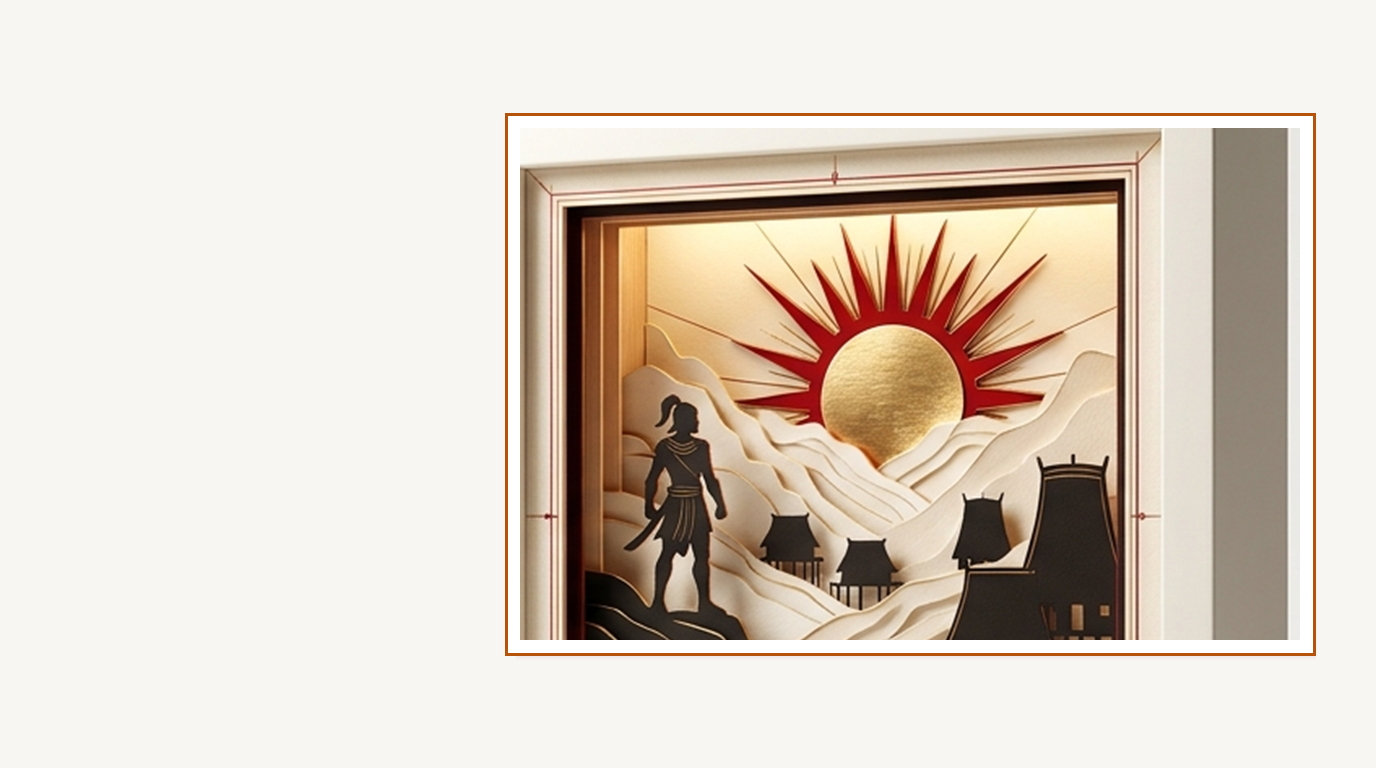
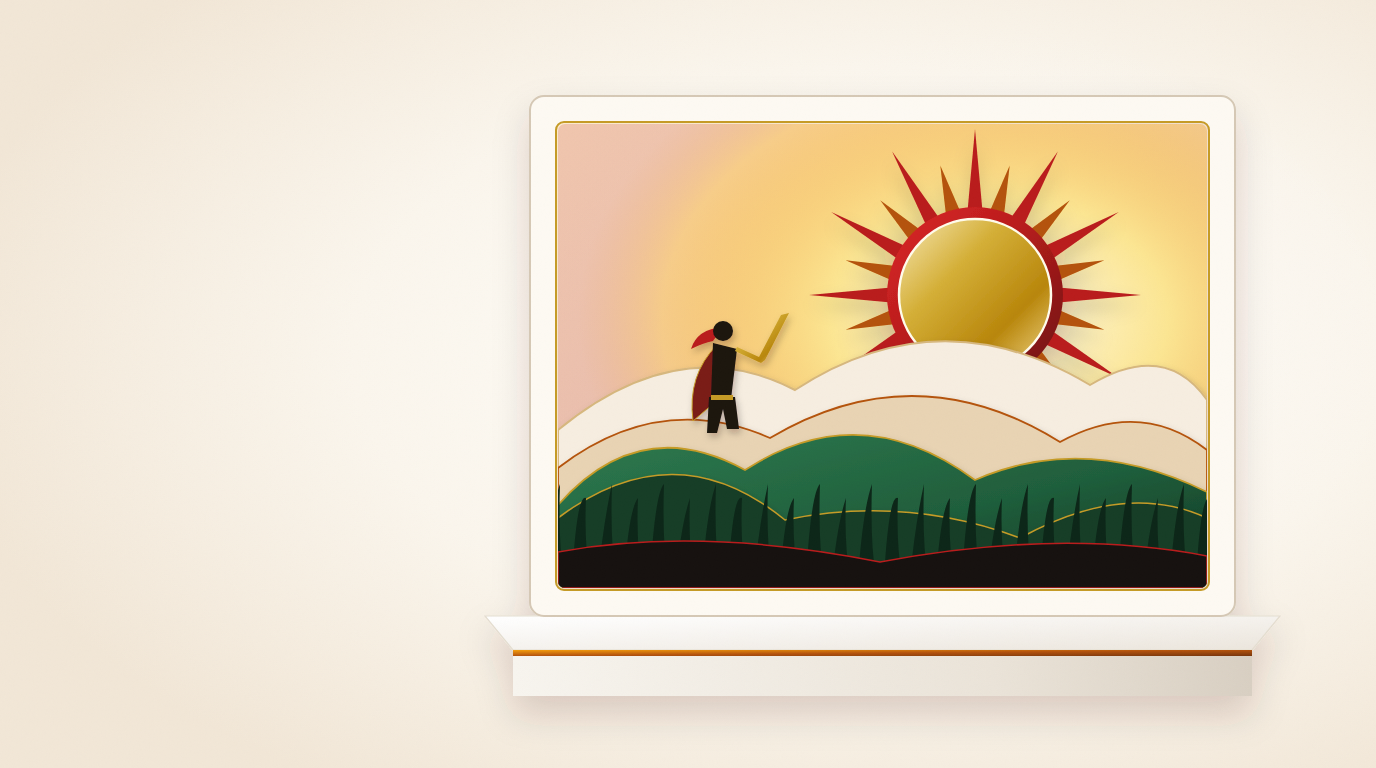
Add 6 unique museum illustration plates to eliminate duplicate images

diff --git a/src/data/quizData.ts b/src/data/quizData.ts
@@ -147,7 +147,7 @@ export const QUIZ_QUESTIONS: QuizQuestion[] = [
     correctIndex: 1,
     explanation:
       "Trùm Sò mang tâm lý vừa xót của mất trộm vừa tiếc từng đồng lễ lót tay cửa quan, khiến cuộc đối đáp mặc cả ở chốn Huyện đường trở thành tấn hài kịch sâu cay.",
-    artworkImage: "/images/cinema/scene-vi-dien-podcast.png",
+    artworkImage: "/images/cinema/scene-vi-dien-huyen-duong.png",
     sourceRef: "Hồ sơ nhân vật Trùm Sò (Chủ đề 01)",
   },
   {
@@ -166,7 +166,7 @@ export const QUIZ_QUESTIONS: QuizQuestion[] = [
     correctIndex: 1,
     explanation:
       "Mỗi động tác ước lệ như Tri huyện vuốt râu vỗ án, Đề lại khom lưng rỉ tai hay Trùm Sò ôm túi tiền vái lạy đều gắn chặt với tính cách nhân vật và nhịp trống sân khấu tuồng.",
-    artworkImage: "/images/cinema/scene-vi-dien-podcast.png",
+    artworkImage: "/images/cinema/scene-vi-dien-huyen-duong.png",
     sourceRef: "Triển lãm số – Tư liệu Vi diễn Huyện đường",
   },
 
@@ -208,7 +208,7 @@ export const QUIZ_QUESTIONS: QuizQuestion[] = [
     correctIndex: 2,
     explanation:
       "Đề lại là viên thư lại thân cận thông thuộc giấy tờ nhưng gian ngoan, chuyên bày mưu ăn đút hai mang; mã màu trắng bệch pha xanh xám và khóe miệng lệch khắc họa rõ bản chất mọt sách xảo quyệt này.",
-    artworkImage: "/images/cinema/scene-huyen-duong-tu-nhan-vat.png",
+    artworkImage: "/images/cinema/scene-infographic-tu-giac.png",
     sourceRef: "Chủ đề 01 – Hồ sơ giải mã nhân vật Đề lại",
   },
   {
@@ -364,7 +364,7 @@ export const QUIZ_QUESTIONS: QuizQuestion[] = [
     correctIndex: 0,
     explanation:
       "Podcast của Chủ đề 02 giúp người xem khi quét mã QR trên Hộp kể chuyện vừa quan sát ánh sáng diorama vừa cảm nhận được linh hồn sử thi qua bếp lửa nhà dài và âm vang cồng chiêng Ê-đê.",
-    artworkImage: "/images/cinema/scene-dam-san-nha-dai.png",
+    artworkImage: "/images/cinema/scene-podcast-klei-khan.png",
     sourceRef: "Triển lãm số – Podcast Sử thi Đăm Săn",
   },
 
@@ -463,7 +463,7 @@ export const QUIZ_QUESTIONS: QuizQuestion[] = [
     correctIndex: 0,
     explanation:
       "Điểm đặc trưng của học liệu STEAM Ngữ văn là sợi dây nối tri thức văn bản với tạo hình kỹ thuật: học sinh phải giải trình rõ chi tiết màu sắc hay bố cục bắt nguồn từ lời thoại hoặc câu văn nào.",
-    artworkImage: "/images/cinema/scene-10-trien-lam.png",
+    artworkImage: "/images/cinema/scene-so-tay-the-giai-ma.png",
     sourceRef: "Sổ tay Xưởng STEAM & Rubric đánh giá Nói và Nghe",
   },
 ];

diff --git a/src/data/exhibitionData.ts b/src/data/exhibitionData.ts
@@ -128,7 +128,7 @@ export const EXHIBITION_ITEMS: ExhibitionItem[] = [
     videoStatusNote:
       "Khung phát video vi diễn của nhóm học sinh (Giáo viên cập nhật tệp video sau buổi thực hành trên lớp)",
     artSubject: "exhibit-micro-acting",
-    expectedAssetFile: "/images/cinema/scene-07-huyen-duong.png",
+    expectedAssetFile: "/images/cinema/scene-vi-dien-huyen-duong.png",
   },
   {
     id: "exhibit-05-infographic-huyen-duong",
@@ -153,7 +153,7 @@ export const EXHIBITION_ITEMS: ExhibitionItem[] = [
     videoStatusNote:
       "Tài liệu học liệu số đính kèm (Tệp chờ cập nhật: /public/docs/infographic-huyen-duong.pdf)",
     artSubject: "exhibit-infographic",
-    expectedAssetFile: "/images/cinema/scene-vi-dien-podcast.png",
+    expectedAssetFile: "/images/cinema/scene-infographic-tu-giac.png",
   },
   {
     id: "exhibit-06-podcast-am-vang-su-thi",
@@ -178,7 +178,7 @@ export const EXHIBITION_ITEMS: ExhibitionItem[] = [
     videoStatusNote:
       "Khung nghe tệp âm thanh thuyết minh (Tệp chờ cập nhật: /public/audio/podcast-su-thi-dam-san.mp3)",
     artSubject: "exhibit-podcast",
-    expectedAssetFile: "/images/cinema/scene-dam-san-mat-troi.png",
+    expectedAssetFile: "/images/cinema/scene-podcast-klei-khan.png",
   },
   {
     id: "exhibit-07-the-giai-ma-thu-cong",
@@ -202,7 +202,7 @@ export const EXHIBITION_ITEMS: ExhibitionItem[] = [
     ],
     videoStatusNote:
       "Khung video lật mở bộ thẻ thủ công (Tệp chờ cập nhật: /public/videos/exhibition/bo-the-thu-cong.mp4)",
-    artSubject: "exhibit-mask-set",
-    expectedAssetFile: "/images/cinema/scene-09-xuong-steam.png",
+    artSubject: "exhibit-handbook",
+    expectedAssetFile: "/images/cinema/scene-so-tay-the-giai-ma.png",
   },
 ];

diff --git a/src/components/LearningForumSection.tsx b/src/components/LearningForumSection.tsx
@@ -80,10 +80,10 @@ export const LearningForumSection: React.FC = () => {
                     <img
                       src={
                         selectedDiscussionId === "discussion-dam-san"
-                          ? "/images/cinema/scene-dam-san-mat-troi.png"
+                          ? "/images/cinema/scene-podcast-klei-khan.png"
                           : selectedDiscussionId === "discussion-steam-lien-mon"
-                          ? "/images/cinema/scene-10-trien-lam.png"
-                          : "/images/cinema/scene-07-huyen-duong.png"
+                          ? "/images/cinema/scene-so-tay-the-giai-ma.png"
+                          : "/images/cinema/scene-vi-dien-huyen-duong.png"
                       }
                       alt={currentDiscussion.topicName}
                       className="h-full w-full object-cover"

diff --git a/src/components/HeritageArtwork.tsx b/src/components/HeritageArtwork.tsx
@@ -19,9 +19,10 @@ const MUSEUM_IMAGE_MAP: Partial<Record<ArtSubject, string>> = {
   "exhibit-mask-set": "/images/cinema/scene-huyen-duong-tu-nhan-vat.png",
   "exhibit-storybox": "/images/cinema/scene-05-dam-san-steam.png",
   "exhibit-longhouse": "/images/cinema/scene-dam-san-nha-dai.png",
-  "exhibit-infographic": "/images/cinema/scene-vi-dien-podcast.png",
-  "exhibit-micro-acting": "/images/cinema/scene-07-huyen-duong.png",
-  "exhibit-podcast": "/images/cinema/scene-dam-san-mat-troi.png",
+  "exhibit-infographic": "/images/cinema/scene-infographic-tu-giac.png",
+  "exhibit-micro-acting": "/images/cinema/scene-vi-dien-huyen-duong.png",
+  "exhibit-podcast": "/images/cinema/scene-podcast-klei-khan.png",
+  "exhibit-handbook": "/images/cinema/scene-so-tay-the-giai-ma.png",
 };
 
 /**

diff --git a/src/components/SteamMakerspaceSection.tsx b/src/components/SteamMakerspaceSection.tsx
@@ -109,7 +109,7 @@ export const SteamMakerspaceSection: React.FC = () => {
           <div className="group overflow-hidden rounded-2xl bg-heritage-emeraldSoft/40 border-2 border-heritage-emerald/30 shadow-museum">
             <div className="aspect-[16/9] w-full overflow-hidden bg-white">
               <img
-                src="/images/cinema/scene-05-dam-san-steam.png"
+                src="/images/cinema/scene-dam-san-mat-troi.png"
                 alt="Mô hình Hộp kể chuyện 3 lớp Sử thi Đăm Săn với ánh sáng LED"
                 className="h-full w-full object-cover transition-transform duration-700 group-hover:scale-[1.03]"
                 loading="lazy"

diff --git a/src/types/heritage.ts b/src/types/heritage.ts
@@ -10,7 +10,8 @@ export type ArtSubject =
   | "exhibit-longhouse"
   | "exhibit-infographic"
   | "exhibit-micro-acting"
-  | "exhibit-podcast";
+  | "exhibit-podcast"
+  | "exhibit-handbook";
 
 export interface MuseumWing {
   id: string;
